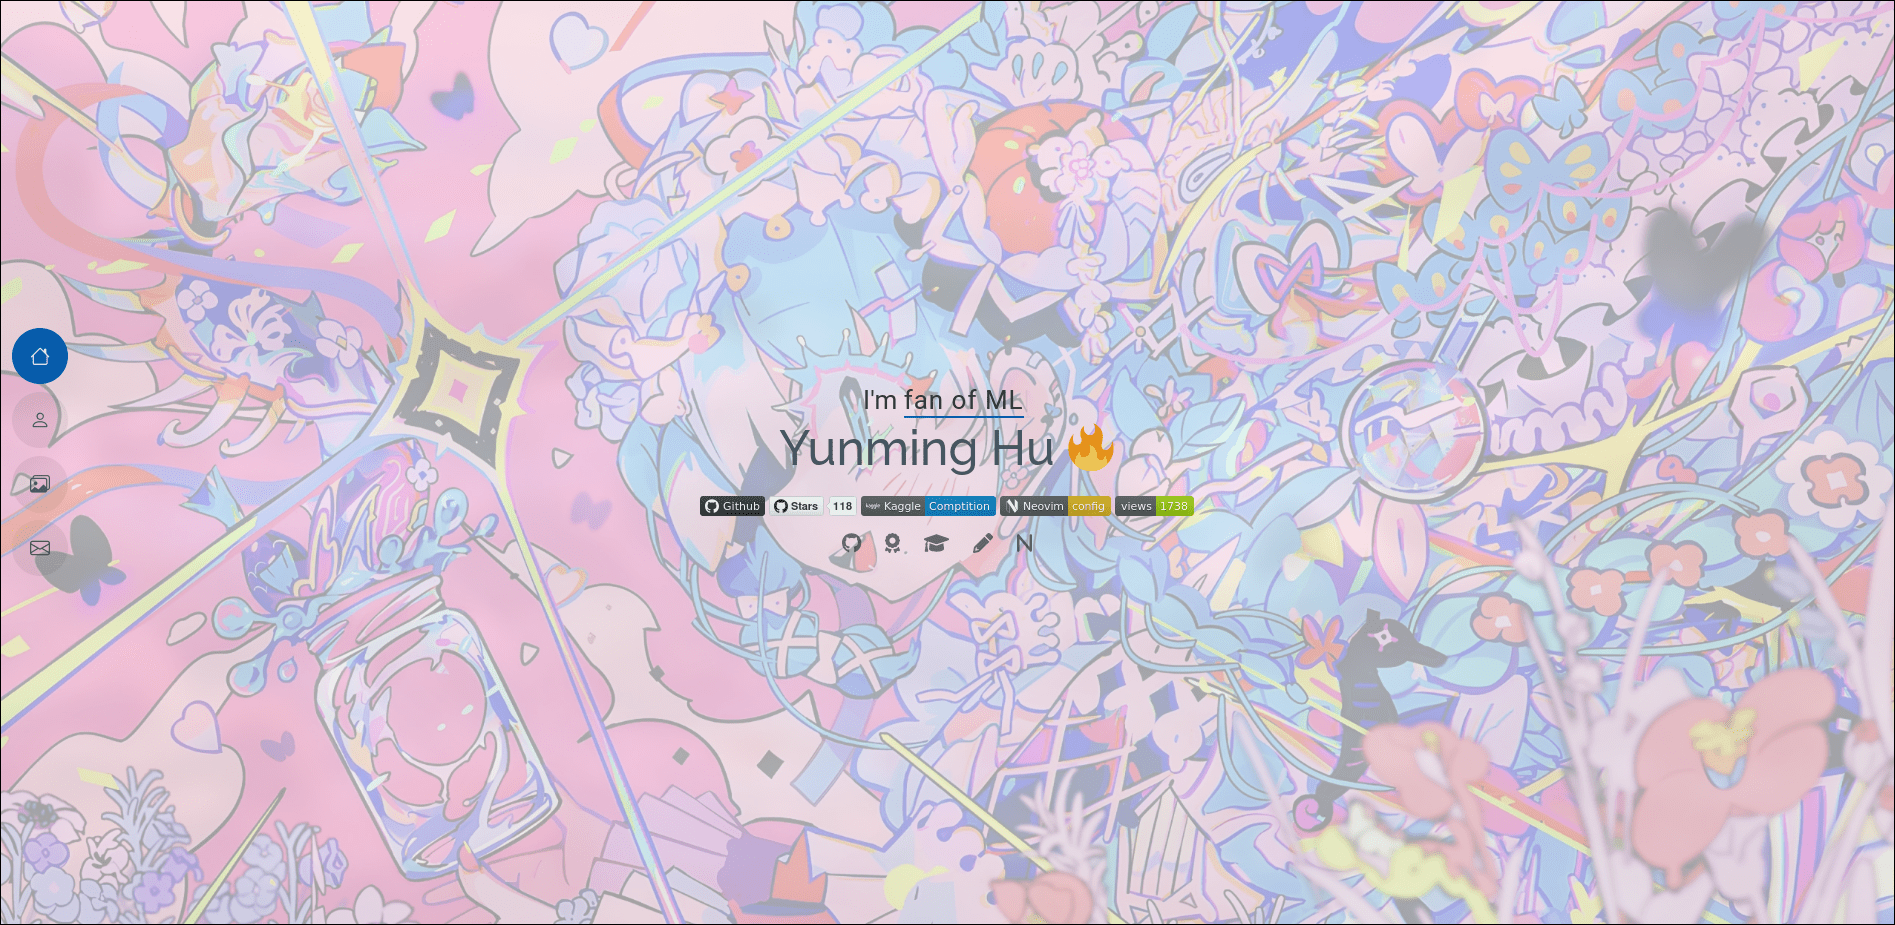
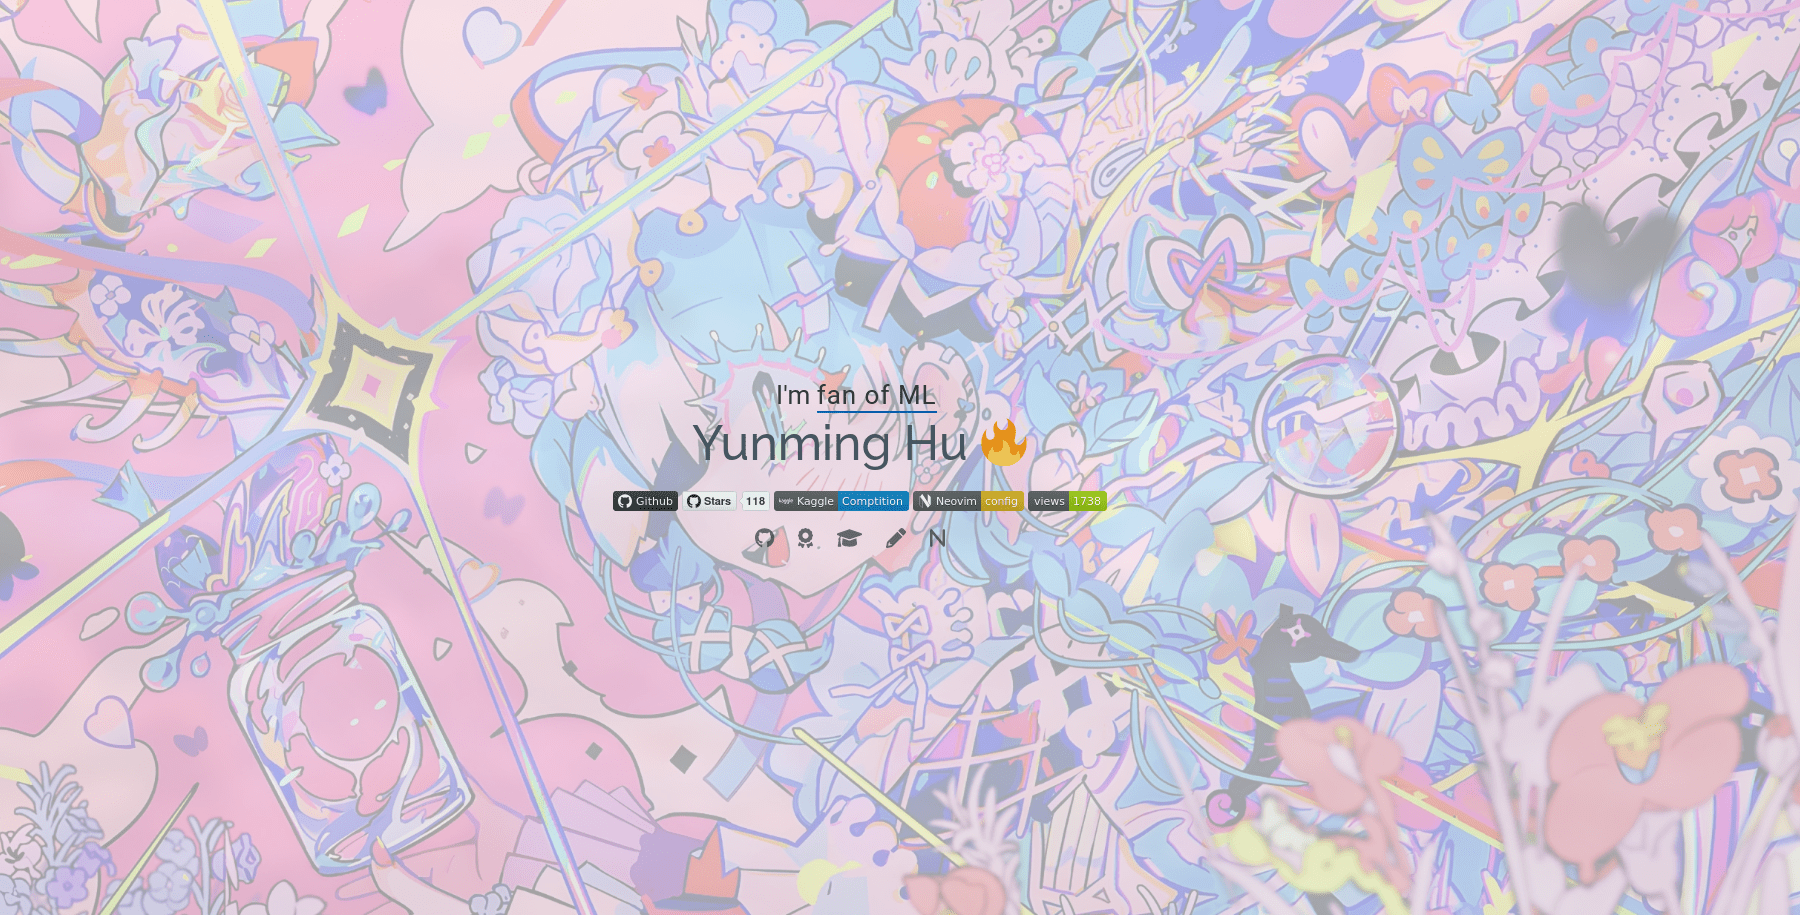
#compress imgs

diff --git a/pages/portfolio/index.html b/pages/portfolio/index.html
@@ -82,7 +82,7 @@
           </div>
 
           <div class="col-md-4 project-item web">
-            <a href="project-web3-details.html" class="card project-card">
+            <a href="https://github.com/HugoPhi/ChatApp" class="card project-card">
               <img src="assets/web3.png" alt="Web Design Project 3" class="card-img-top">
               <div class="card-body">
                 <h5 class="card-title">Chat App</h5>
@@ -108,7 +108,7 @@
           <!-- Frame Work Projects -->
           <div class="col-md-4 project-item fwk">
             <a href="https://pypi.org/project/opcal/" class="card project-card">
-              <img src="assets/fwk1.png" alt="Frame Work Project 1" class="card-img-top">
+              <img src="assets/fwk1.jpg" alt="Frame Work Project 1" class="card-img-top">
               <div class="card-body">
                 <h5 class="card-title">Opcal</h5>
                 <p class="card-text">Python package for Numerical Calculation & Optimization. Install:
@@ -119,8 +119,8 @@
           </div>
 
           <div class="col-md-4 project-item fwk">
-            <a href="https://pypi.org/manage/project/hym20220592/" class="card project-card">
-              <img src="assets/fwk2.png" alt="Frame Work Project 2" class="card-img-top">
+            <a href="https://pypi.org/project/hym20220592/" class="card project-card">
+              <img src="assets/fwk2.jpg" alt="Frame Work Project 2" class="card-img-top">
               <div class="card-body">
                 <h5 class="card-title">ml</h5>
                 <p class="card-text">Python package for basic Machine Learning algorithms. Install:
@@ -131,7 +131,7 @@
           </div>
 
           <div class="col-md-4 project-item fwk">
-            <a href="https://github.com/HugoPhi/stl.rust.git" class="card project-card">
+            <a href="https://github.com/HugoPhi/stl.rust" class="card project-card">
               <img src="assets/fwk3.png" alt="Frame Work Project 3" class="card-img-top">
               <div class="card-body">
                 <h5 class="card-title">stl.rust</h5>
@@ -141,7 +141,7 @@
           </div>
 
           <div class="col-md-4 project-item fwk">
-            <a href="https://github.com/HugoPhi/quick-har.git" class="card project-card">
+            <a href="https://github.com/HugoPhi/quick-har" class="card project-card">
               <img src="assets/fwk4.png" alt="Frame Work Project 4" class="card-img-top">
               <div class="card-body">
                 <h5 class="card-title">quick-har</h5>
